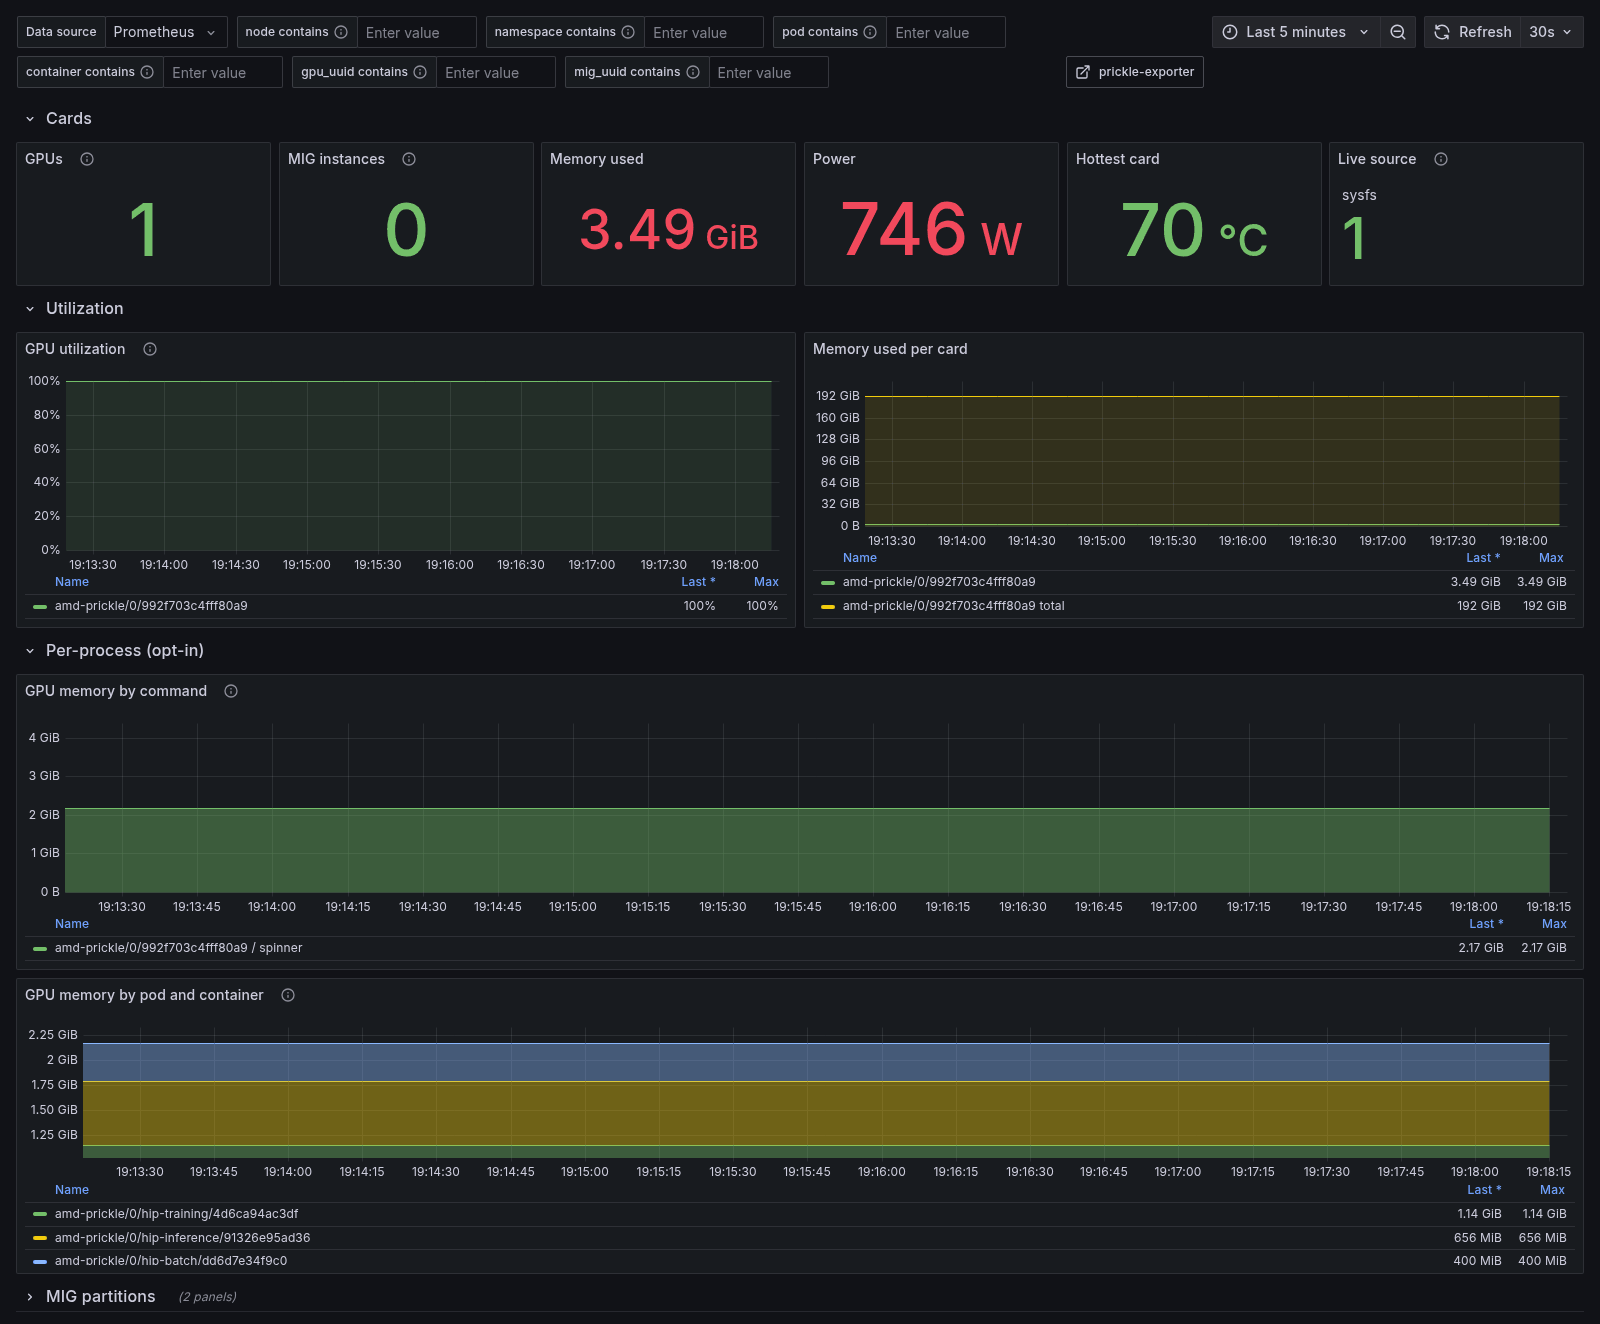
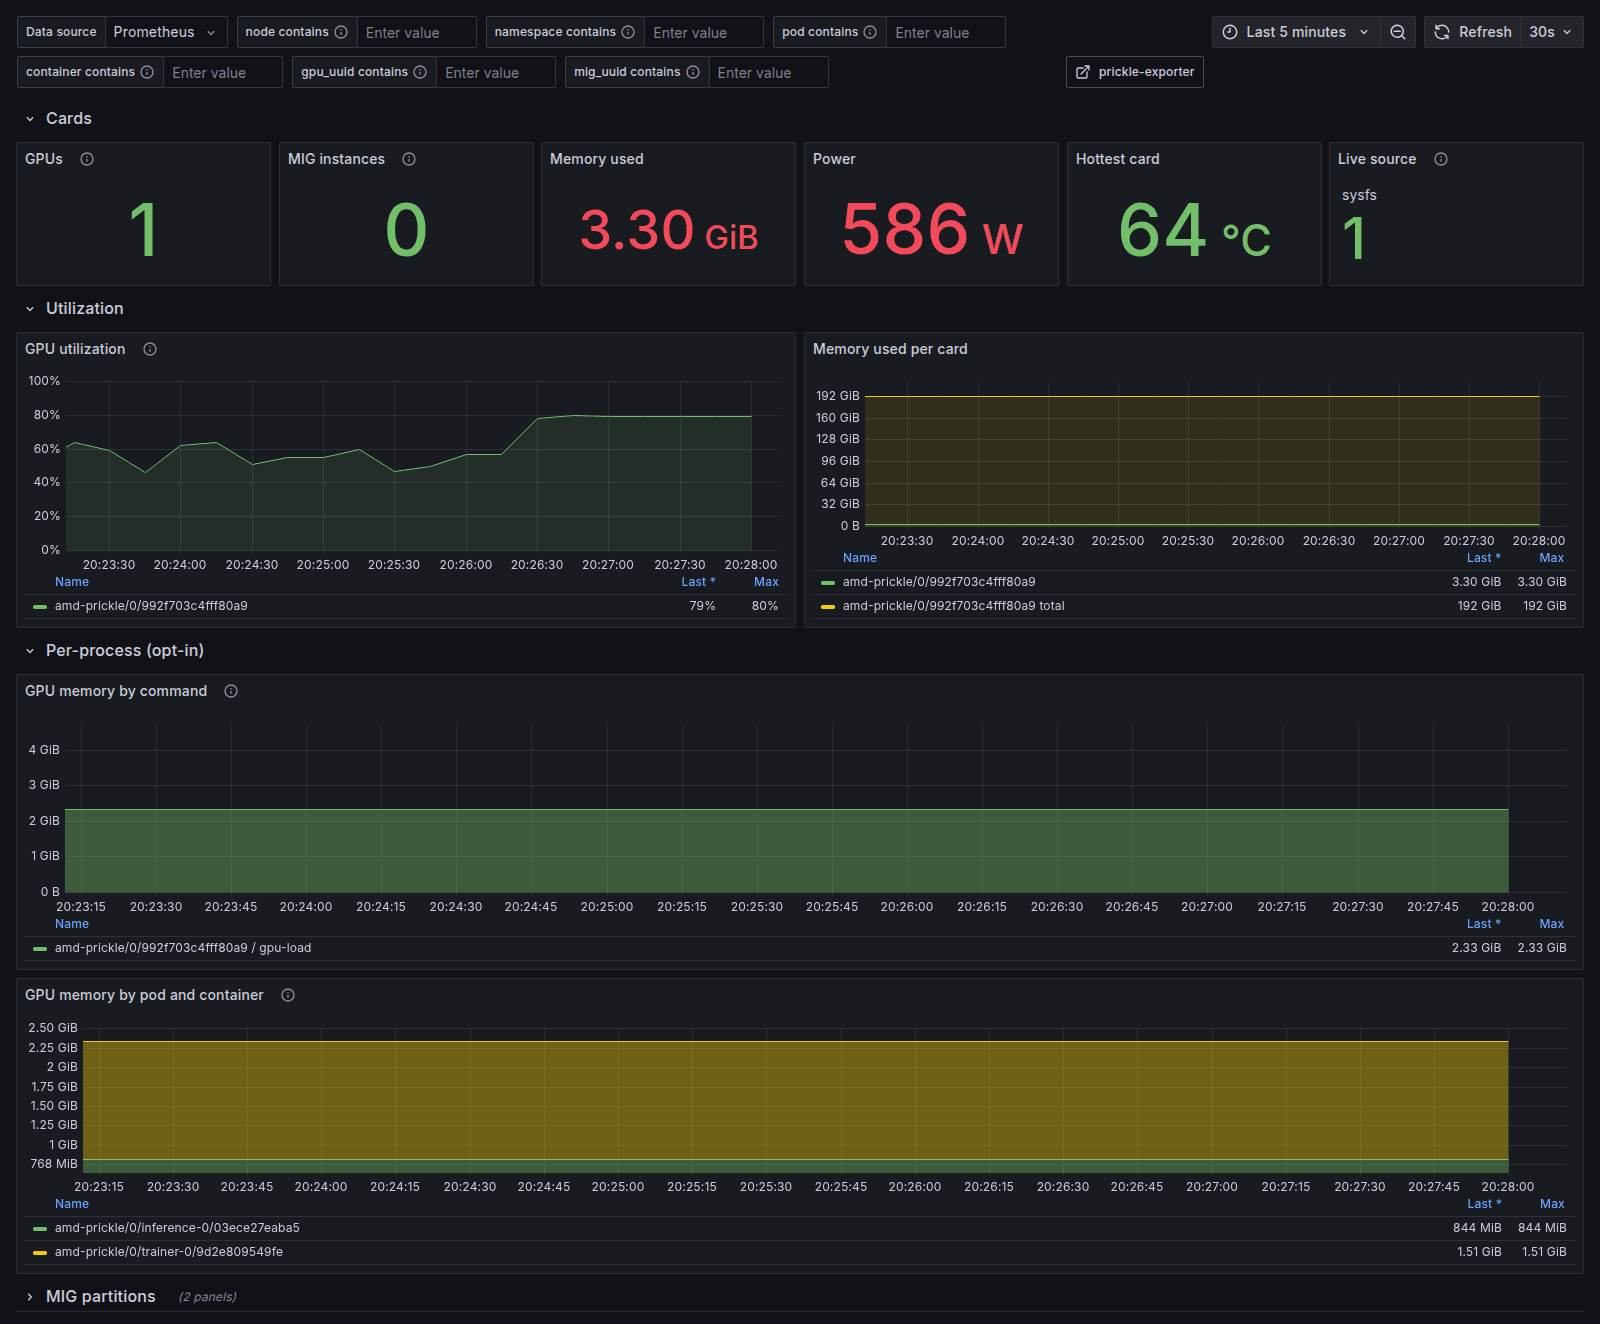
docs: show GPU Tenancy on AMD, and record what the run proved
The AMD screenshot that landed with PR #12 was a placeholder in everything but
name: three ad-hoc pods pinning the card at 100%, captured with the Grafana
image renderer rather than scripts/capture-dashboard.sh, and taken before the
load generator existed. Beside a re-captured NVIDIA hero showing a drifting
45-92% tenant it made the wrong argument - that the two vendors look different -
when the point of the pair is that they do not.

Re-captured with gpu-tenants-amd.yaml: the same two tenants, the same profiles,
the same script, the same 1600x1324 frame. One MI300X drifting 45-80% at 586 W
and 64 C, and trainer-0 at 1.51 GiB beside inference-0 at 844 MiB on one card.
Set against the NVIDIA shot, the only panel that differs is Live source - sysfs
rather than nvml - and every label a query joins on is identical, which is the
claim the metrics contract actually makes. The alt text and caption say so.

Also here:

- verification.md's AMD section now records the run that produced this image
  rather than the earlier one, plus the duty-window measurement and the AppArmor
  dependency reproduced by accident: installing a chart predating
  collectors.appArmorUnconfined onto the running cluster emptied the per-process
  family completely, and reinstalling from main brought it straight back. No
  error, no log line, device and container metrics healthy throughout.
- The demo README's GPU-nodes section was NVIDIA-only, and its two-release split
[…]

diff --git a/README.md b/README.md
@@ -235,20 +235,26 @@ the detail, is in
 
 <p align="center">
   <img src="assets/dashboards/gpu-tenancy-amd.png" width="900"
-       alt="The same GPU Tenancy dashboard on an AMD cluster. One MI300X sits at 100% utilisation drawing 746 W at 70 °C, holding 3.49 GiB of its 192 GiB, with sysfs as the live source and no MIG instances. The per-process panel below stacks that one card's memory across three pods in three namespaces — hip-training at 1.14 GiB, hip-inference at 656 MiB and hip-batch at 400 MiB — each resolved to its pod name and container ID rather than a PID.">
+       alt="The same GPU Tenancy dashboard on an AMD cluster. One MI300X drifts between 45% and 80% utilisation across the five-minute window, drawing 586 W at 64 °C, holding 3.30 GiB of its 192 GiB, with sysfs as the live source and no MIG instances. The per-process panel below splits that one card's memory between two pods in different namespaces — trainer-0 at 1.51 GiB and inference-0 at 844 MiB — each resolved to its pod name and container ID rather than a PID.">
 </p>
 <p align="center">
-  <sub><em>The same dashboard, an <strong>MI300X</strong> instead of an H100 —
-  three tenants on one card, read from sysfs and DRM <code>fdinfo</code> with no
-  vendor branch in the query.</em></sub>
+  <sub><em>The same dashboard and the same two tenants, on an
+  <strong>MI300X</strong> instead of an H100 — read from sysfs and DRM
+  <code>fdinfo</code> with no vendor branch in the query.</em></sub>
 </p>
 
-Nothing in that dashboard is vendor-specific: it is the same JSON against the
-same metric names, and the only visible difference is `Live source`, which reads
-`nvml` above and `sysfs` here because the AMD path spawns no subprocess to have
-a source of. Per-process attribution on AMD needs one thing NVIDIA does not —
-see [`collectors.appArmorUnconfined`](packaging/helm/prickle-exporter/values.yaml),
-on by default, without which that bottom panel comes back empty and silent.
+That is the same dashboard JSON as the one at the top of this file, against the
+same metric names, with the same workload on it. What differs is the card and
+one panel: `Live source` reads `nvml` there and `sysfs` here, because the AMD
+path spawns no subprocess and has no driver API to name. Everything a query
+joins on — `node`, `gpu_uuid`, `pod`, `container` — is identical, which is the
+whole claim the metrics contract makes.
+
+Per-process attribution on AMD does need one thing NVIDIA does not:
+[`collectors.appArmorUnconfined`](packaging/helm/prickle-exporter/values.yaml),
+on by default since 0.8.0. Without it that bottom panel comes back **empty with
+nothing logged** — the AMD path reads every process's `fdinfo`, which
+containerd's default profile denies.
 
 ## Pod names
 
@@ -313,7 +319,7 @@ first scrape.
 ## Status
 
 **Phase 5 — all five roadmap phases are implemented.** Host, container and
-NVIDIA GPU collectors, each developed against captured fixture trees;
+GPU collectors — NVIDIA and AMD — each developed against captured fixture trees;
 per-collector timeouts, cardinality caps and self-instrumentation; and the
 distribution artifacts — two binaries with hardened systemd units,
 multi-architecture container images, a Helm chart, a compose quickstart and

diff --git a/docs/verification.md b/docs/verification.md
@@ -123,24 +123,35 @@ are fixed by NVIDIA's own ABI contract rather than by hope. Nothing from the
 ## AMD on Kubernetes
 
 The released `ghcr.io/starkdrift/prickle-exporter:0.8.0` image on a single-node
-kubeadm 1.34 cluster, 2026-08-05, on one **MI300X** — an SR-IOV virtual
-function, ROCm 7.2.4, containerd, Ubuntu 24.04 — with the chart from `main` so
-that `collectors.appArmorUnconfined` was in it.
+kubeadm 1.34 cluster, 2026-08-05 and 2026-08-06, on one **MI300X** — an SR-IOV
+virtual function, ROCm 7.2.4, containerd, Ubuntu 24.04 — with the chart from
+`main` so that `collectors.appArmorUnconfined` was in it.
 
-- **Three tenant pods sharing one card.** A HIP kernel in `team-alpha`,
-  `team-beta` and `team-gamma`, holding 1024, 512 and 256 MiB, came back as
-  three `prickle_gpu_process_memory_bytes` series joined through to pod name and
-  container from a plain `helm install --set collectors.perProcess=true` — no
-  manual patch. Without the AppArmor change that family is **silently empty** on
-  containerd; the reasoning is in
+- **Two tenant pods sharing one card**, the same two profiles the NVIDIA capture
+  uses: [gpu-load](../scripts/gpu-load/) built for `gfx942`, holding 1400 and
+  700 MiB in `team-alpha` and `team-beta`. Both came back as
+  `prickle_gpu_process_memory_bytes` joined through to pod name and container —
+  1.51 GiB and 844 MiB — from a plain
+  `helm install --set collectors.perProcess=true` with no manual patch.
+- **The AppArmor dependency was then reproduced by accident, which is the best
+  evidence for it.** Installing a chart that predates
+  `collectors.appArmorUnconfined` onto the same cluster, with the same two
+  tenants running, emptied that family completely: no error, no log line, device
+  and container metrics perfectly healthy. Reinstalling from `main` brought both
+  series straight back. The reasoning is in
   [values.yaml](../packaging/helm/prickle-exporter/values.yaml).
 - **Every panel of all four dashboards run as a `query_range`** over the live
   window: 50 targets, **0 PromQL errors**, nothing unexpectedly empty. The two
-  MIG panels return nothing, which is correct on a card that is not partitioned,
-  and *GPU memory by pod and container* rendered all three tenants. The
-  `Live source` stat reads `sysfs`: AMD has no counterpart to
+  MIG panels return nothing, which is correct on a card that is not partitioned.
+  The `Live source` stat reads `sysfs`: AMD has no counterpart to
   `prickle_gpu_nvidia_source_info` because it spawns no subprocess to have a
   source of.
+- **amdgpu needs a shorter duty window than NVML to be read honestly.** Holding
+  a 45–55% target, eight scrapes apiece, a 120 ms busy/idle alternation read
+  34–63% while a 30 ms one read 46–53% — same mean, four times the spread. The
+  AMD load generator therefore runs a 30 ms window where the CUDA one runs
+  120 ms; a capture taken with the NVIDIA constant would have shown a curve that
+  was mostly sampling artefact.
 - **The chart's NOTES diagnostic was verified end to end**, on a host no sweep
   had touched. The printed command carried
   `-collector.container.pod-names -collector.gpu.per-process`, and running it

diff --git a/packaging/kubernetes-demo/README.md b/packaging/kubernetes-demo/README.md
@@ -102,6 +102,31 @@ Verified on a two-node kubeadm 1.34 cluster (H100 80GB worker, driverless
 control plane) on 2026-08-05: every panel populated except the two MIG ones,
 which are empty because the card is not partitioned.
 
+### On AMD, one release covers the cluster
+
+None of the split above applies. The AMD path is sysfs and DRM `fdinfo` — there
+is no second image, no driver library to mount and nothing that can fail to
+start on a driverless node, so the single `helm install` at the top of this file
+reaches every node and reports the cards it finds:
+
+```sh
+helm install prickle packaging/helm/prickle-exporter -n prickle-demo --create-namespace \
+  --set collectors.podNames.enabled=true \
+  --set collectors.perProcess=true
+```
+
+**`collectors.perProcess=true` is where AMD needs something NVIDIA does not.**
+It brings `collectors.appArmorUnconfined` with it, on by default since 0.8.0,
+and without that the per-process panels come back **empty with nothing logged**
+— containerd's default profile denies the ptrace-class access that reading
+another process's `fdinfo` needs, and the AMD path has no driver API to ask
+instead. Measured here twice, once by accident: installing a chart that predates
+the setting emptied those two panels on an otherwise healthy cluster.
+
+Verified on a single-node kubeadm 1.34 cluster with one MI300X on 2026-08-06,
+against the released `0.8.0` image: two tenant pods in two namespaces sharing
+the card, both resolved to pod name and container.
+
 ## Not a deployment
 
 Anonymous admin, no Ingress, six hours of Prometheus retention on an
